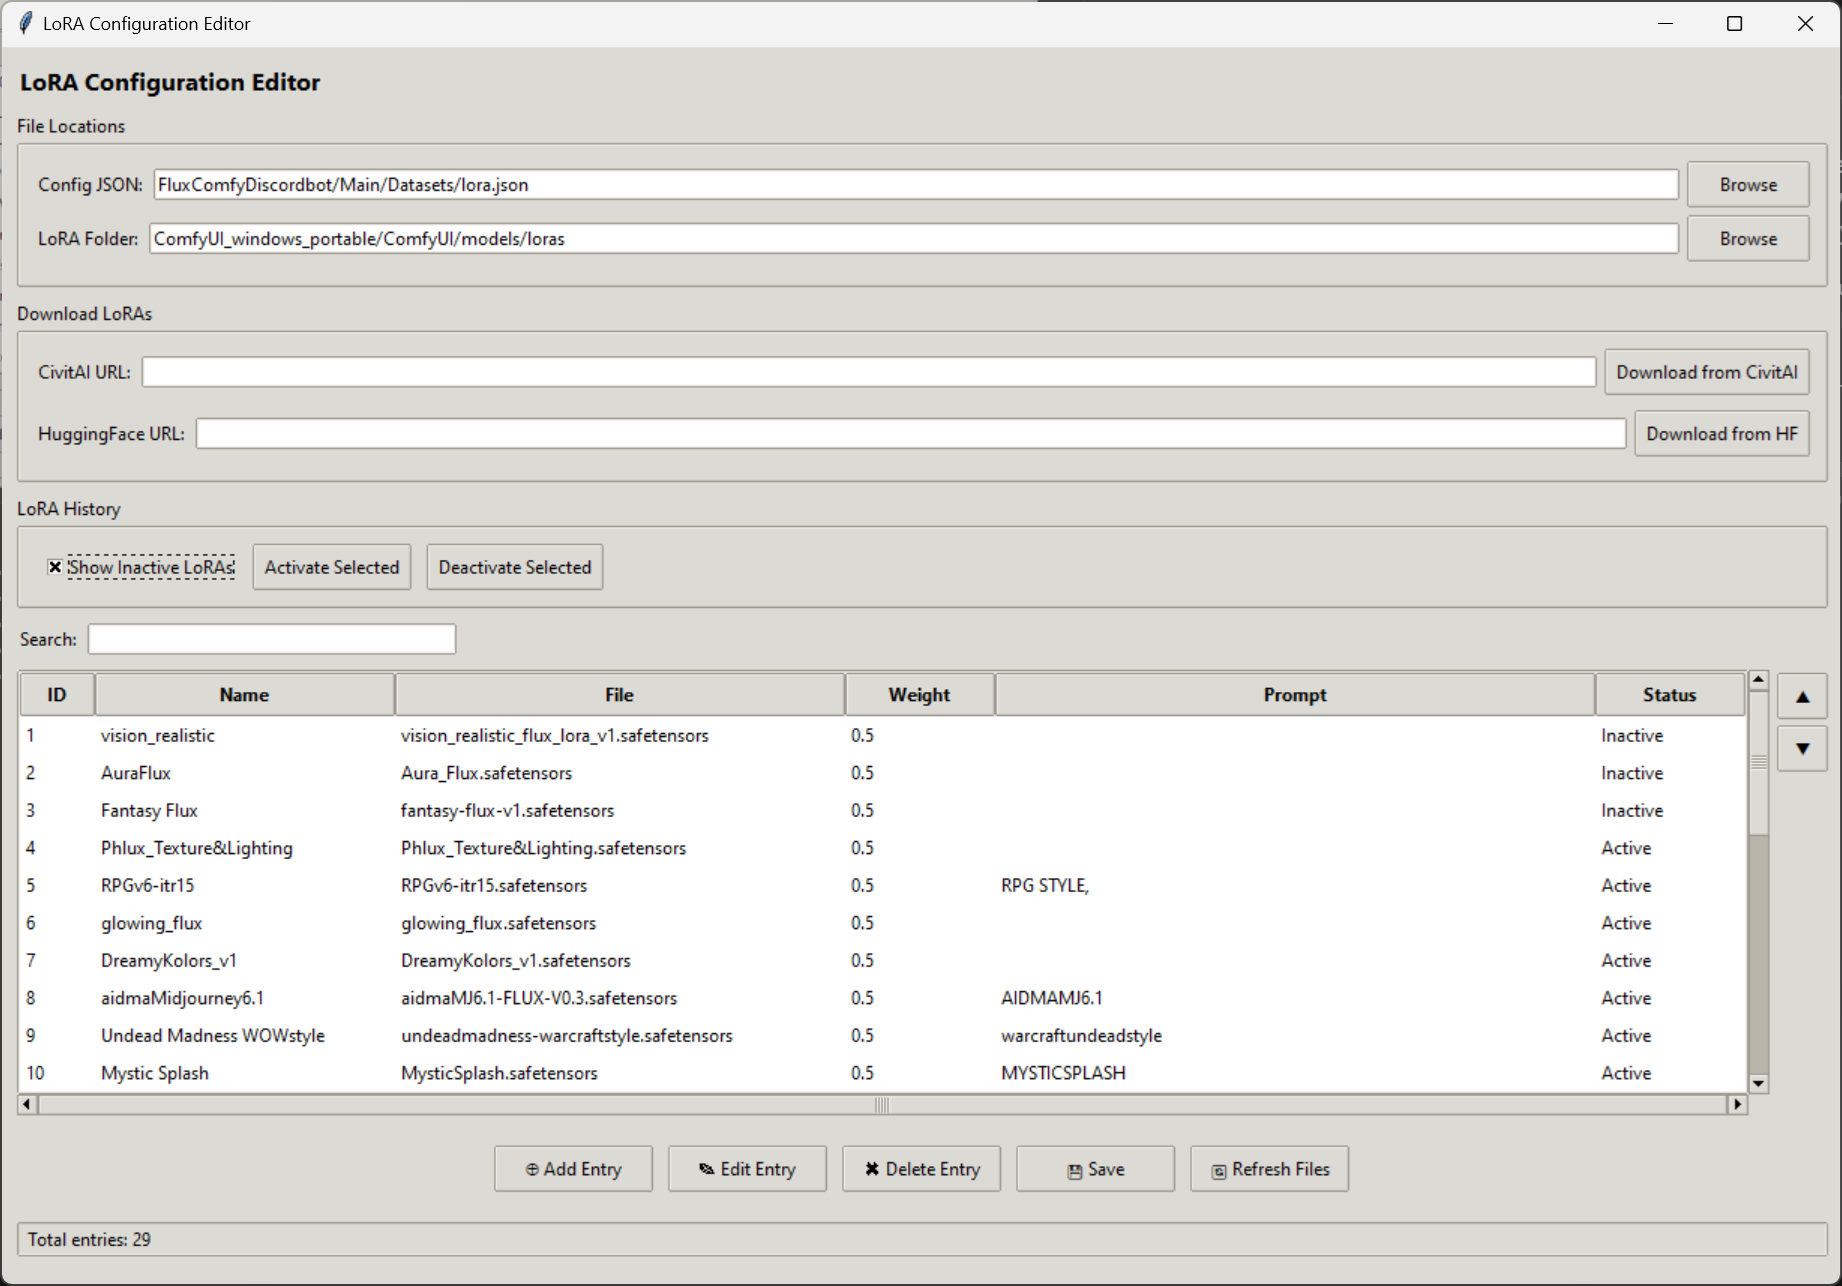
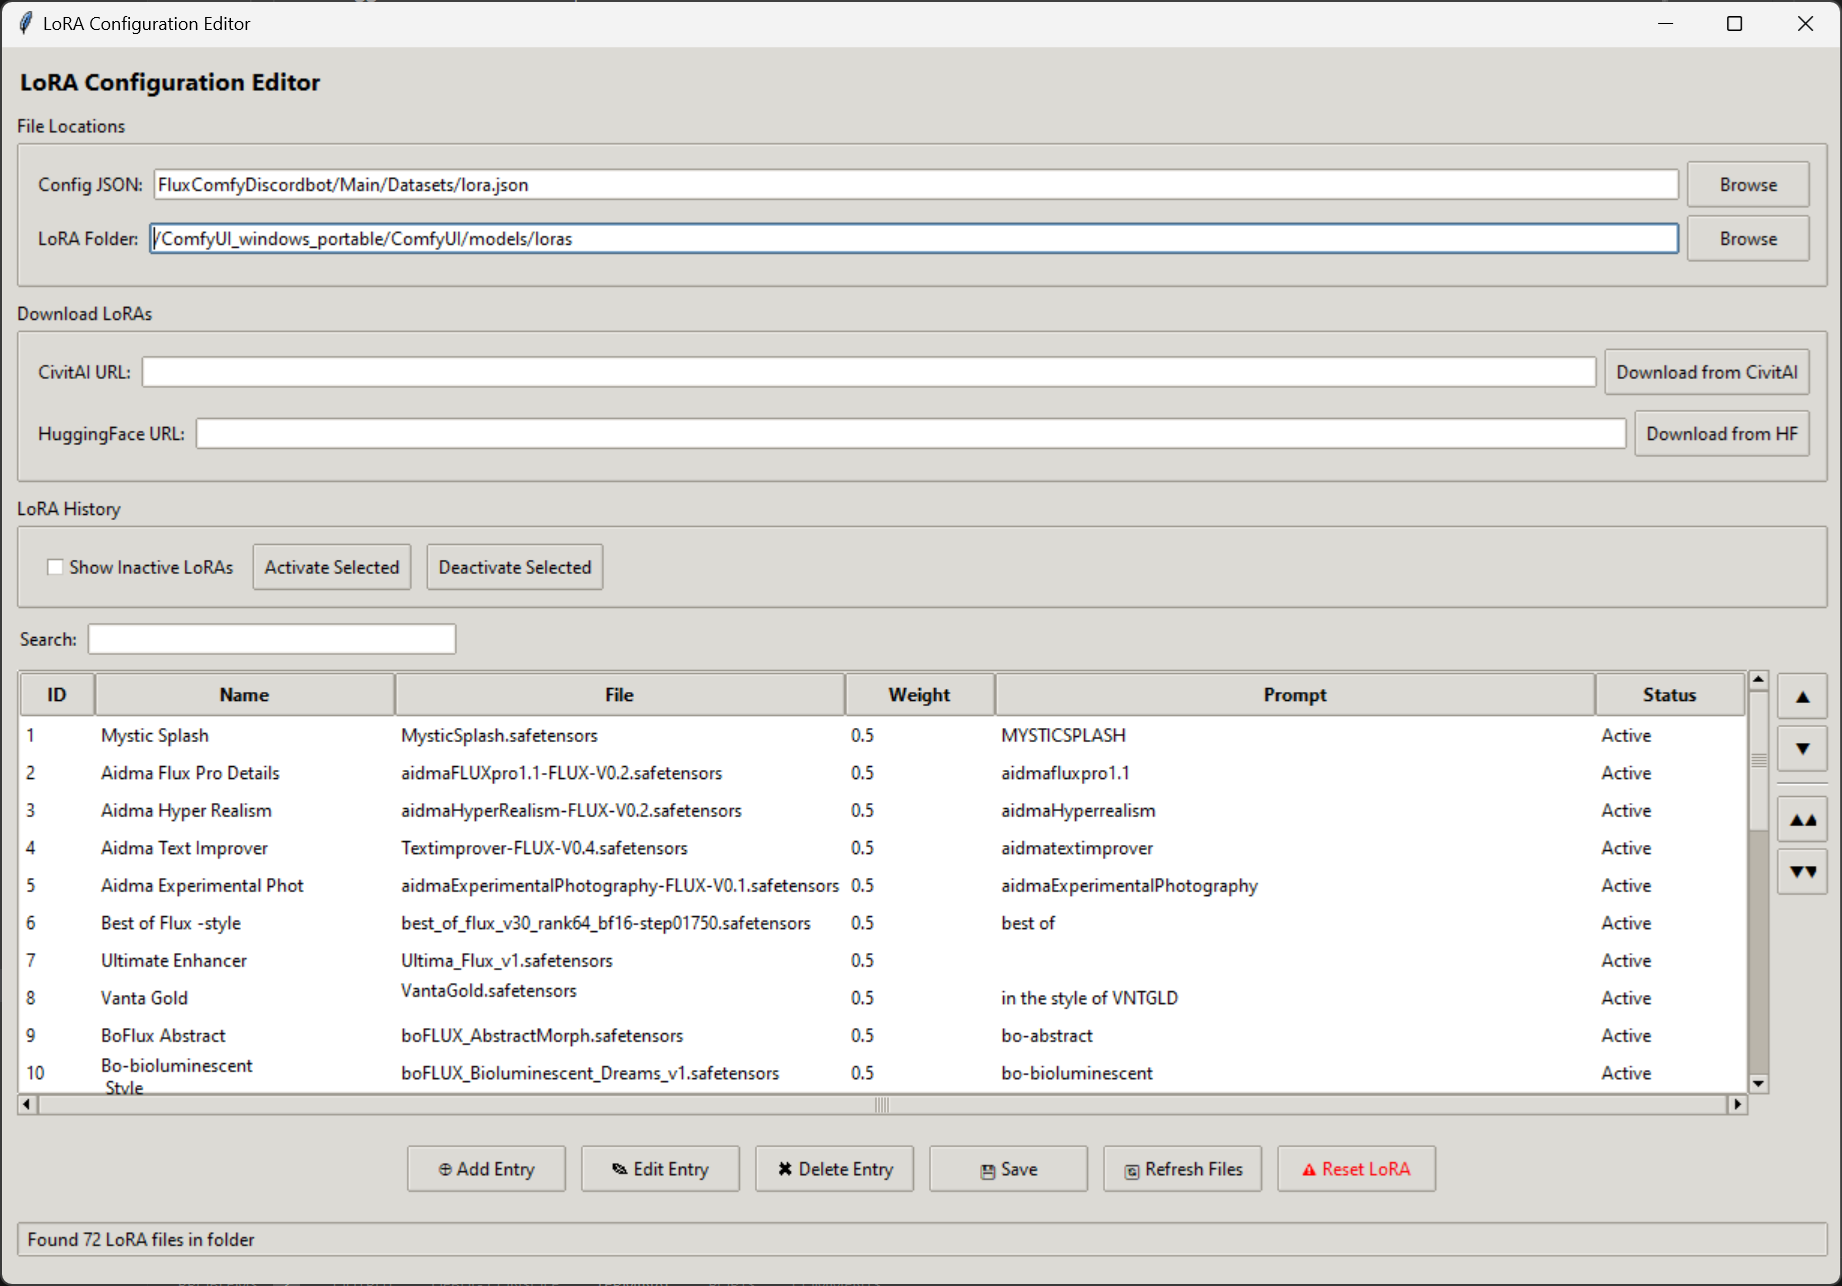
updated readme to reflect changes previously made.

diff --git a/readme.md b/readme.md
@@ -24,6 +24,15 @@ Whether you're an artist looking for inspiration, a writer wanting to visualize 
 
 So, are you ready to dive into a world where your words paint pictures? Where your imagination knows no bounds? Where you can create images you never even knew you could think of? Then you're in the right place! Let's embark on this exciting journey of AI-powered creativity together!
 
+## New Updates:
+  * Loras are now monitored and when a new one is detected it will be added to the list of loras on the bot, no need to restart the bot.
+  * Lora list now supports more than 25 loras, theoritically it can support north of 600 loras.
+  * Lora editor
+    * Added active and inactive status, you can now select what ones you want to show with out having to delete them.
+    * Added Jump 5 space buttons, will move the selected lora up or down 5 spaces
+    * Added reset lora this will wipe out all loras(destructive) does not delete your loras in your folder.
+    * Added Huggingface support, you can now download loras from huggingface.
+
 ## Table of Contents
 1. [Prerequisite](#prerequisite)
 2. [Installation](#installation)
@@ -131,19 +140,9 @@ This is where the magic happens, LoRA models can enhance and apply a specific fe
 
 These models will go in your comfyui/models/Lora folder.
 
-### Adding LoRA's to your bot (please configure this before running, has examples already you may not have!)
+## Adding LoRA's to your bot 
+(please configure this before running, has examples already you may not have!)
 
-  #### Manually configure:
-  * open the lora.json file located in /Datasets 
-  * Add name of your LoRA you downloaded or use a name you choose so you know what it is, this does not need to be the actual name of the file.
-  * add_prompt: if the lora requires a trigger word place it in this field
-  * file: this is the exact name of the LoRA file with .safetensors, Example: MyLoRA.safetensors
-  * weight: this is the weight required to get the desired effect from the lora.  
-    * 0.5 is ideal if you are wanting to use multiple LoRA's at one time, having many at 1.0 can cause mass hallucination on image generations.
-   
-    
-    
-    
 ### New Tool: Lora_editor
 
     ### update: 
@@ -152,6 +151,9 @@ These models will go in your comfyui/models/Lora folder.
     * Persistant lora information is stored in sqlite3 database.
     * Trigger words are now persistant. 
     * Now supports Huggingface (you will need to add the trigger words yourself for HF LoRA's)
+    * Now has a reset lora button, this will wipe all loras from the list. (will not delete the lora files)
+    * has 5 space jump for listed loras, double arrows will jump the item in list 5 spaces up or down.
+    * Loras are now instantly available on the bot as soon as they are added to the list. 
 
   * This tool will allow you to configure your LoRA's with a simple gui, it will also allow you to download new LoRA's from Civitai and Huggingface.
   * Open lora_editor.py  using "python lora_editor.py", it will open a gui window.
@@ -171,6 +173,18 @@ These models will go in your comfyui/models/Lora folder.
   - allows you to customize in what order they are shown in the bot easily.
       
 <img src="loraeditor.png" width="600">
+  
+  #### Manually configure:
+  * open the lora.json file located in /Datasets 
+  * Add name of your LoRA you downloaded or use a name you choose so you know what it is, this does not need to be the actual name of the file.
+  * add_prompt: if the lora requires a trigger word place it in this field
+  * file: this is the exact name of the LoRA file with .safetensors, Example: MyLoRA.safetensors
+  * weight: this is the weight required to get the desired effect from the lora.  
+    * 0.5 is ideal if you are wanting to use multiple LoRA's at one time, having many at 1.0 can cause mass hallucination on image generations.
+   
+    
+    
+    
 
 
 #### Banned words or people
